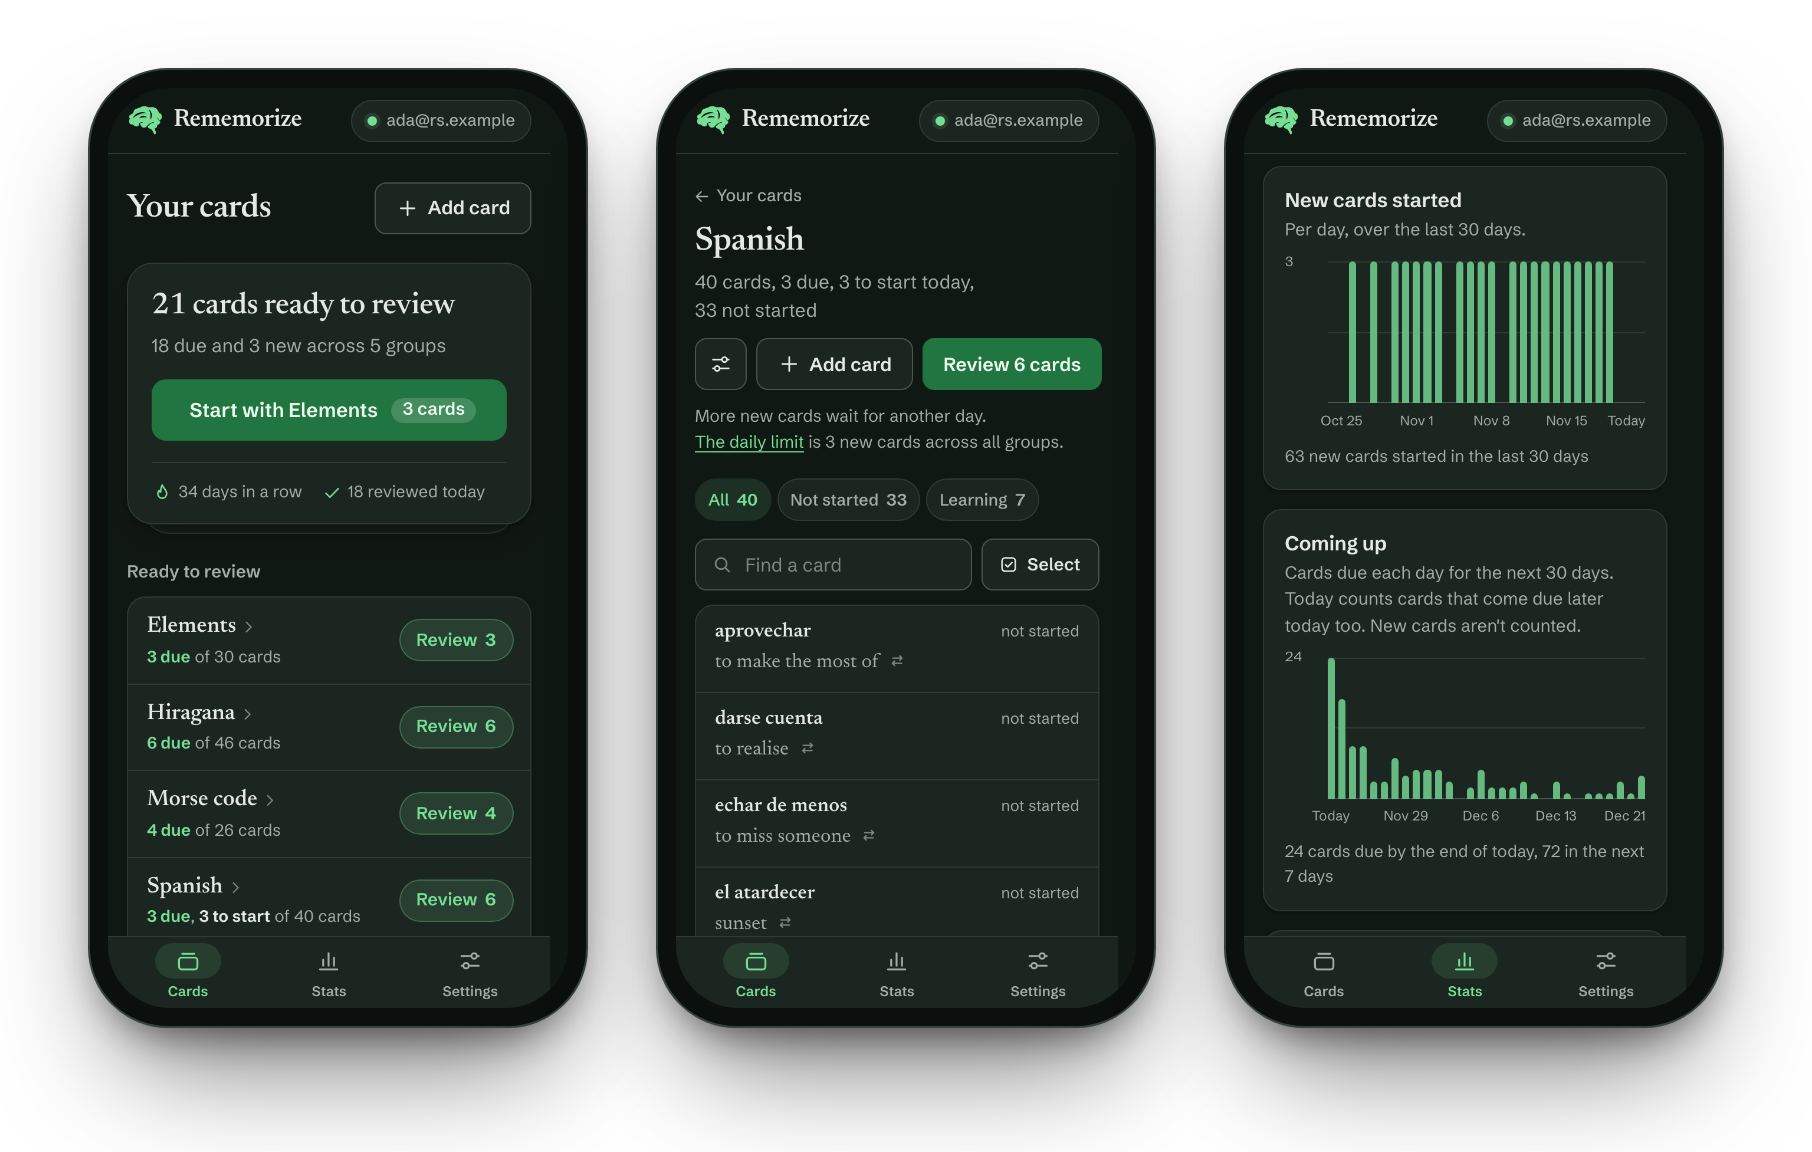
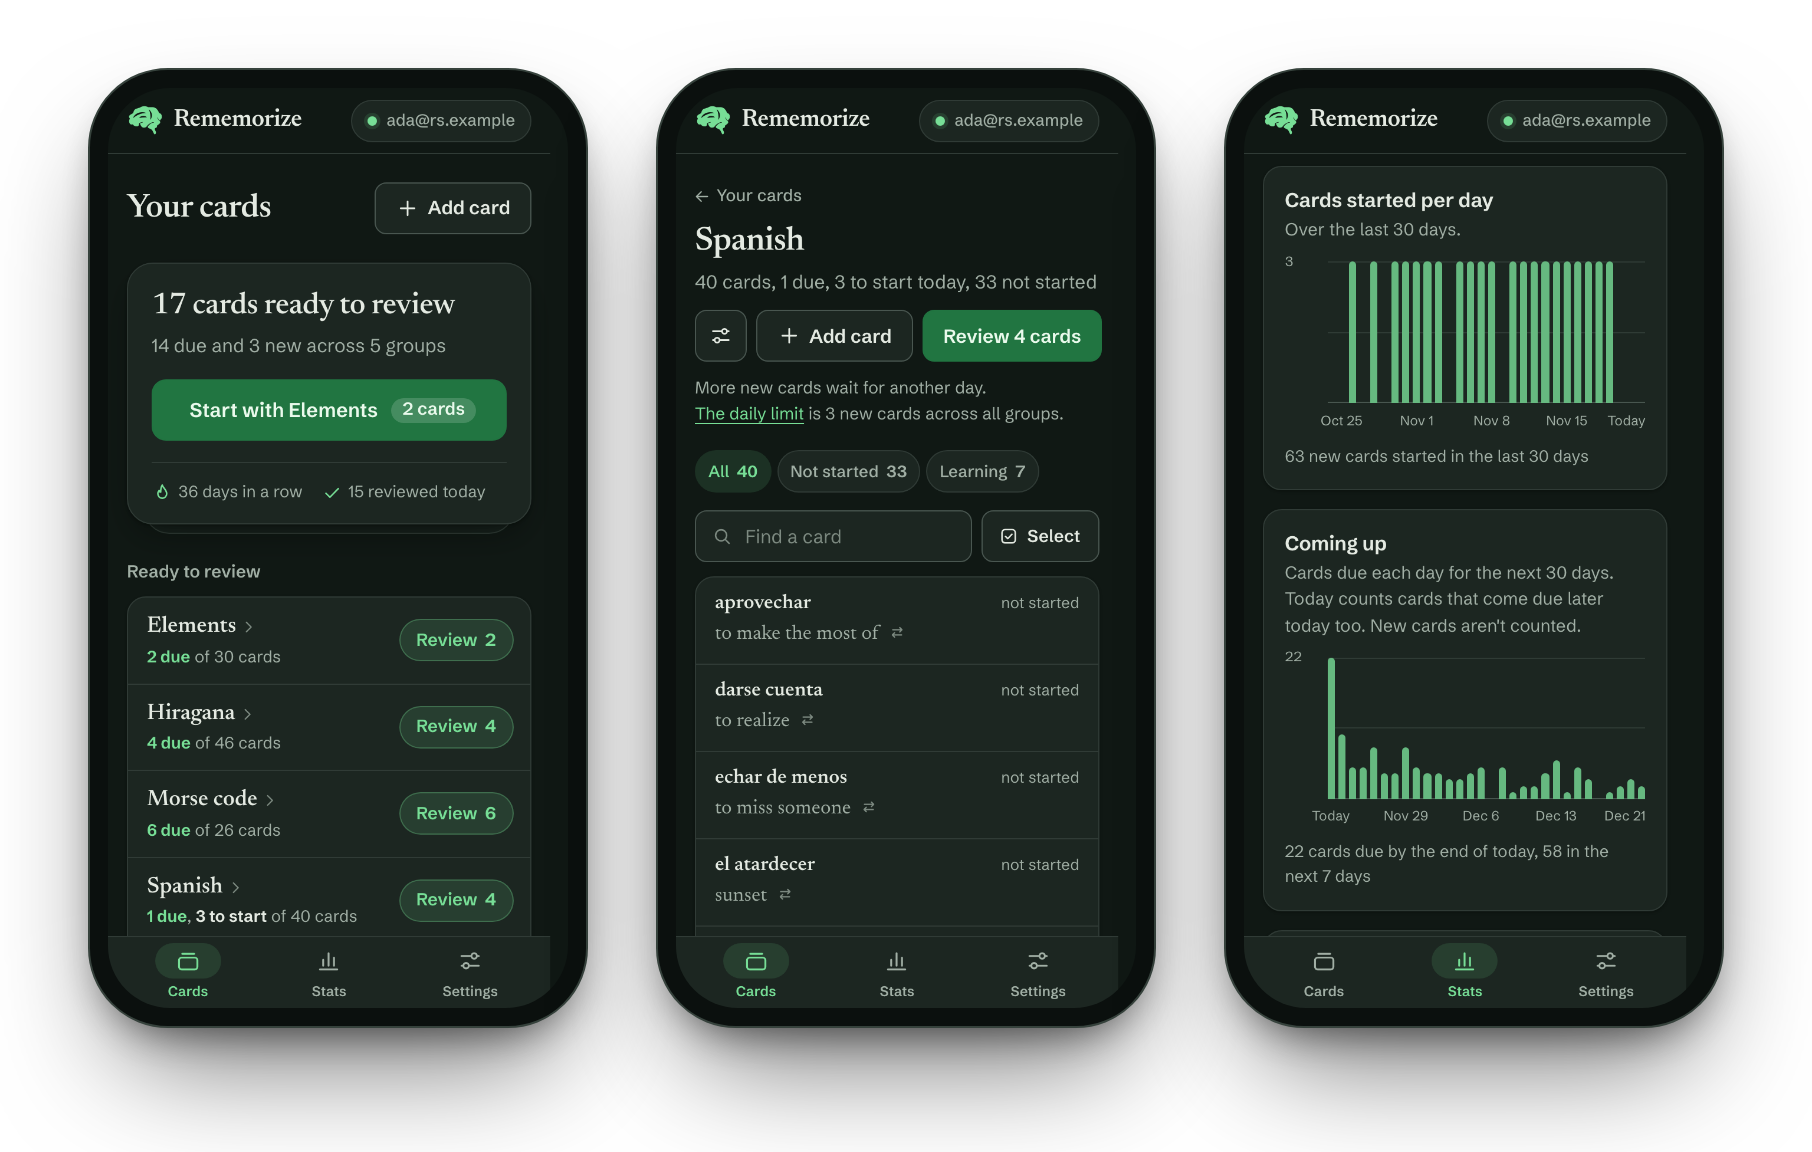
Clarify README pitch, app metadata, and in-app copy (#33)

diff --git a/tests/e2e/local.spec.ts b/tests/e2e/local.spec.ts
@@ -8,7 +8,7 @@ import { acceptDialogs, addCard } from "./helpers";
 test("empty state", async ({ page }) => {
     await page.goto("/");
     await expect(page.getByText("No cards yet")).toBeVisible();
-    await expect(page.getByRole("link", { name: /Not synced/ })).toBeVisible();
+    await expect(page.getByRole("link", { name: /Saved locally/ })).toBeVisible();
 });
 
 test("add cards, edit, move between groups, delete", async ({ page }) => {
@@ -111,7 +111,7 @@ test("cards can be picked and moved to another group, a new one, and back", asyn
     await page.goto("/#/group/Czech");
     await page.getByRole("button", { name: "Select", exact: true }).click();
     const bar = page.getByRole("toolbar", { name: "Selected cards" });
-    await expect(bar).toContainText("Pick cards to move");
+    await expect(bar).toContainText("Select cards");
     await expect(bar.getByRole("button", { name: "Move to…" })).toBeDisabled();
     // A tap on a row picks it instead of opening it.
     await page.locator(".cards li").filter({ hasText: "pivo" }).click();
@@ -137,7 +137,7 @@ test("cards can be picked and moved to another group, a new one, and back", asyn
     await bar.getByRole("button", { name: "Select all" }).click();
     await expect(bar).toContainText("3 selected");
     await bar.getByRole("button", { name: "Select none" }).click();
-    await expect(bar).toContainText("Pick cards to move");
+    await expect(bar).toContainText("Select cards");
     await page.locator(".cards li").filter({ hasText: "chléb" }).click();
     await page
         .locator(".cards li")
@@ -496,9 +496,9 @@ test("reviews of a few cards at a time, and the home page counts new cards apart
     await expect(page.getByText("3 new cards in Numbers")).toBeVisible();
 
     await page.goto("/#/account");
-    await expect(page.getByLabel("Most cards per review")).toHaveValue("");
-    await page.getByLabel("Most cards per review").fill("2");
-    await page.getByLabel("Most cards per review").blur();
+    await expect(page.getByLabel("Cards per review")).toHaveValue("");
+    await page.getByLabel("Cards per review").fill("2");
+    await page.getByLabel("Cards per review").blur();
 
     await page.goto("/#/group/Numbers");
     await expect(page.getByText("3 ready to review, 2 at a time: the review size is 2.")).toBeVisible();
@@ -522,10 +522,10 @@ test("reviews of a few cards at a time, and the home page counts new cards apart
     // Clearing the field turns the limit off again.
     await page.reload();
     await page.goto("/#/account");
-    await expect(page.getByLabel("Most cards per review")).toHaveValue("2");
-    await page.getByLabel("Most cards per review").fill("");
-    await page.getByLabel("Most cards per review").blur();
-    await expect(page.getByLabel("Most cards per review")).toHaveValue("");
+    await expect(page.getByLabel("Cards per review")).toHaveValue("2");
+    await page.getByLabel("Cards per review").fill("");
+    await page.getByLabel("Cards per review").blur();
+    await expect(page.getByLabel("Cards per review")).toHaveValue("");
 });
 
 test("cards can be studied back → front, or both ways", async ({ page }) => {
@@ -595,7 +595,7 @@ test("cards can be studied back → front, or both ways", async ({ page }) => {
 test("new cards take a direction from the settings or their group, and many cards change at once", async ({ page }) => {
     // The settings' direction is what a new card starts with.
     await page.goto("/#/account");
-    await page.getByLabel("Cards you add", { exact: true }).selectOption("Both ways");
+    await page.getByLabel("Default study direction", { exact: true }).selectOption("Both ways");
     await page.goto("/#/new?group=Czech");
     await expect(page.getByLabel("Study direction")).toHaveValue("both");
     await page.getByLabel("Front").fill("pivo");
@@ -612,7 +612,7 @@ test("new cards take a direction from the settings or their group, and many card
 
     // A group's own direction, offered to the cards already in it.
     await page.getByRole("button", { name: "Group settings" }).click();
-    const own = page.getByLabel("Cards you add here");
+    const own = page.getByLabel("Default study direction");
     await expect(own).toHaveValue("");
     await own.selectOption("Back → front");
     const offer = page.getByRole("status").filter({ hasText: "Study the 2 cards already here back → front too?" });

diff --git a/src/components/Account.svelte b/src/components/Account.svelte
@@ -195,9 +195,9 @@
         <form class="connect" onsubmit={connect}>
             <label class="title" for="address">Connect your storage</label>
             <p class="muted">
-                Your cards are currently saved in this browser only. Connect a
-                <a href="https://remotestorage.io" target="_blank" rel="noreferrer">remoteStorage</a> account to back them
-                up and sync them across devices. New to remoteStorage?
+                Rememorize doesn't store your cards on its servers. Your cards stay in this browser by default. Connect a
+                <a href="https://remotestorage.io" target="_blank" rel="noreferrer">remoteStorage</a> account you own to
+                back them up and sync across devices. New to remoteStorage?
                 <a href="https://remotestorage.io/get/" target="_blank" rel="noreferrer">Get a storage account</a>.
             </p>
             <div class="row">
@@ -245,7 +245,7 @@
         </div>
 
         <div class="setting">
-            <label for="cards-per-review">Most cards per review</label>
+            <label for="cards-per-review">Cards per review</label>
             <input
                 id="cards-per-review"
                 class="field number"
@@ -259,21 +259,21 @@
             />
             <p class="muted">
                 Splits what's due into reviews of this many cards, so you never face a huge pile in one sitting. When
-                one ends you can start the next straight away or come back later: nothing is pushed back. Leave it
-                empty for no limit.
+                one ends you can start the next right away or come back later: nothing is pushed back. Leave it empty
+                for no limit.
             </p>
         </div>
 
         <div class="setting">
-            <label for="direction">Cards you add</label>
+            <label for="direction">Default study direction</label>
             <select id="direction" class="field direction" value={library.direction} onchange={setDirection}>
                 {#each Object.entries(DIRECTION_LABELS) as [value, label] (value)}
                     <option {value}>{label}</option>
                 {/each}
             </select>
             <p class="muted">
-                Which way round the cards you add are studied, unless their group says otherwise. A group's settings
-                can give it a direction of its own, and each card can still be changed by itself.
+                Default direction for new cards, unless their group sets its own. You can still change the direction on
+                any individual card.
             </p>
         </div>
     </div>
@@ -331,10 +331,10 @@
             <div class="hours"><span>00</span><span>06</span><span>12</span><span>18</span><span>24</span></div>
         </div>
         <p class="muted">
-            Nothing arrives during quiet hours. What comes due during them is counted in one reminder when they
-            end. The rest of the day, another follows when more cards come due than you last saw: cards you
-            answered Hard or Again get one shortly after you put Rememorize away, and the others come at least six
-            hours apart while it stays closed.
+            No notifications arrive during quiet hours. Cards that come due during quiet hours are rolled into one
+            reminder when quiet hours end. During the day, you'll only get another reminder if more cards come due:
+            missed or hard cards get a prompt shortly after you leave Rememorize, and other follow-ups come at least six
+            hours apart while the app stays closed.
         </p>
         <p class="muted">
             Quiet hours are the same on every device you connect, and follow the clock of the one you used last.

diff --git a/tests/e2e/sync.spec.ts b/tests/e2e/sync.spec.ts
@@ -84,13 +84,13 @@ test("settings are shared between devices", async ({ browser }) => {
     await expect(a.getByLabel("New cards per day")).toHaveValue("3");
 
     // The review size too, including turning it back off.
-    await expect(b.getByLabel("Most cards per review")).toHaveValue("");
-    await a.getByLabel("Most cards per review").fill("40");
-    await a.getByLabel("Most cards per review").blur();
-    await expect(b.getByLabel("Most cards per review")).toHaveValue("40", { timeout: SYNC_TIMEOUT });
-    await b.getByLabel("Most cards per review").fill("");
-    await b.getByLabel("Most cards per review").blur();
-    await expect(a.getByLabel("Most cards per review")).toHaveValue("", { timeout: SYNC_TIMEOUT });
+    await expect(b.getByLabel("Cards per review")).toHaveValue("");
+    await a.getByLabel("Cards per review").fill("40");
+    await a.getByLabel("Cards per review").blur();
+    await expect(b.getByLabel("Cards per review")).toHaveValue("40", { timeout: SYNC_TIMEOUT });
+    await b.getByLabel("Cards per review").fill("");
+    await b.getByLabel("Cards per review").blur();
+    await expect(a.getByLabel("Cards per review")).toHaveValue("", { timeout: SYNC_TIMEOUT });
     await expect(a.getByLabel("New cards per day")).toHaveValue("3");
 });
 
@@ -139,8 +139,8 @@ test("a connection that wasn't granted the app's folder asks to sign in again", 
     await page.locator("form[action='/oauth'] [type=submit]").first().click();
     await expect(page.getByText(`Connected as ${user.address}`)).toBeVisible({ timeout: 20_000 });
     // A setting saved now reaches the server, which it couldn't before.
-    await page.getByLabel("Most cards per review").fill("25");
-    await page.getByLabel("Most cards per review").blur();
+    await page.getByLabel("Cards per review").fill("25");
+    await page.getByLabel("Cards per review").blur();
     await expect(page.getByRole("button", { name: "Sign in again" })).toHaveCount(0, { timeout: 30_000 });
 });
 

diff --git a/src/components/Stats.svelte b/src/components/Stats.svelte
@@ -237,8 +237,7 @@
 {:else}
     {#if log.length === 0}
         <p class="panel muted note">
-            No reviews recorded yet. Your activity shows up here as you review; reviews from before this was added
-            aren't included.
+            No reviews recorded yet. Your activity will show up here as you study.
         </p>
     {/if}
 
@@ -517,7 +516,7 @@
     </section>
 
     <section class="panel">
-        <h2>Cards started</h2>
+        <h2>Total cards started</h2>
         <p class="muted sub">
             Running total of cards you've started, by the day you first reviewed them. A card studied both ways counts
             twice.
@@ -530,8 +529,8 @@
     </section>
 
     <section class="panel">
-        <h2>New cards started</h2>
-        <p class="muted sub">Per day, over the last {DAYS} days.</p>
+        <h2>Cards started per day</h2>
+        <p class="muted sub">Over the last {DAYS} days.</p>
         <BarChart bars={startedBars} summary="{plural(startedTotal, 'new card')} started in the last {DAYS} days" />
     </section>
 

diff --git a/src/components/Home.svelte b/src/components/Home.svelte
@@ -88,9 +88,9 @@
             before you're likely to forget it.
         </p>
         <p class="muted">
-            Your cards are saved in this browser and work offline.
+            Your cards stay in this browser and work offline, with no account needed.
             {#if library.status !== "connected"}
-                <a href={href.account()}>Connect a remoteStorage account</a> to sync them across devices.
+                To sync across devices, <a href={href.account()}>connect your own storage</a>.
             {/if}
         </p>
         <div class="empty-actions">
@@ -243,7 +243,8 @@
 
     {#if library.status === "local"}
         <p class="muted hint">
-            Saved in this browser only. <a href={href.account()}>Connect storage</a> to sync across devices.
+            Saved in this browser only. <a href={href.account()}>Connect your own storage</a> to back up and sync across
+            devices.
         </p>
     {/if}
 {/if}

diff --git a/src/components/GroupSettings.svelte b/src/components/GroupSettings.svelte
@@ -166,7 +166,7 @@
         </form>
 
         <div class="setting">
-            <label for="group-direction">Cards you add here</label>
+            <label for="group-direction">Default study direction</label>
             <select id="group-direction" class="field" value={ownDirection ?? ""} onchange={setDirection} disabled={busy}>
                 <option value="">{DIRECTION_LABELS[library.direction]} (the default)</option>
                 {#each Object.entries(DIRECTION_LABELS) as [value, label] (value)}
@@ -192,7 +192,7 @@
                     </div>
                 </div>
             {:else}
-                <small class="muted">The way round they are studied. Each card can still be changed by itself.</small>
+                <small class="muted">Default direction for new cards in this group. Each card can still be changed on its own.</small>
             {/if}
         </div>
 

diff --git a/index.html b/index.html
@@ -3,7 +3,7 @@
     <head>
         <meta charset="UTF-8" />
         <meta name="viewport" content="width=device-width, initial-scale=1, viewport-fit=cover" />
-        <meta name="description" content="Flashcards with spaced repetition, stored in your own remoteStorage." />
+        <meta name="description" content="Flashcards that come back just before you forget them: offline, private, and yours to keep." />
         <!-- The page background in each scheme; src/lib/theme.ts overrides both when a theme is forced. -->
         <meta name="theme-color" data-scheme="light" media="(prefers-color-scheme: light)" content="#f0f5ed" />
         <meta name="theme-color" data-scheme="dark" media="(prefers-color-scheme: dark)" content="#101814" />

diff --git a/tests/e2e/reminders.spec.ts b/tests/e2e/reminders.spec.ts
@@ -327,8 +327,8 @@ test("a reminder counts everything due, not one review's worth", async ({ page }
     const hub = await standIn(page, device);
     for (const front of ["pes", "kočka", "kůň"]) await addCard(page, { front, back: "animal", group: "Animals" });
     await page.goto("/#/account");
-    await page.getByLabel("Most cards per review").fill("2");
-    await page.getByLabel("Most cards per review").blur();
+    await page.getByLabel("Cards per review").fill("2");
+    await page.getByLabel("Cards per review").blur();
     await turnOn(page);
     expect(nextTitle(hub, device, address(1))).toBe("3 cards due");
 });

diff --git a/src/components/GroupView.svelte b/src/components/GroupView.svelte
@@ -362,7 +362,7 @@
             <Icon name="close" size={18} />
         </button>
         <span class="picked" aria-live="polite">
-            {pickedCards.length === 0 ? "Pick cards to move" : `${pickedCards.length} selected`}
+            {pickedCards.length === 0 ? "Select cards" : `${pickedCards.length} selected`}
         </span>
         <button class="btn ghost" type="button" onclick={toggleAll} disabled={!allShownPicked && shown.length === 0}>
             {allShownPicked ? "Select none" : `Select all${shown.length < cards.length ? " shown" : ""}`}

diff --git a/src/components/Review.svelte b/src/components/Review.svelte
@@ -482,10 +482,7 @@
             {/if}
             {#if waiting > 0}
                 <p>{plural(waiting, "more card")} {waiting === 1 ? "is" : "are"} due.</p>
-                <p class="muted">
-                    Carry on now or come back later: they stay due, and a few hours makes little difference to how
-                    well you remember them.
-                </p>
+                <p class="muted">Keep going now, or take a break and finish them later.</p>
             {/if}
             {#if held > 0}
                 <p class="muted">

diff --git a/vite.config.ts b/vite.config.ts
@@ -44,7 +44,8 @@ export default defineConfig({
             manifest: {
                 name: "Rememorize",
                 short_name: "Rememorize",
-                description: "Flashcards with spaced repetition, stored in your own remoteStorage.",
+                description:
+                    "Flashcards that come back just before you forget them: offline, private, and yours to keep.",
                 start_url: "./",
                 scope: "./",
                 display: "standalone",

diff --git a/src/components/StatusPill.svelte b/src/components/StatusPill.svelte
@@ -4,7 +4,7 @@
     const label = $derived.by(() => {
         if (library.status === "connecting") return "Connecting…";
         if (library.status === "unauthorized") return "Sign in again";
-        if (library.status === "local") return "Not synced";
+        if (library.status === "local") return "Saved locally";
         if (library.offline) return "Offline";
         if (library.syncing) return "Syncing…";
         return library.userAddress || "Connected";
